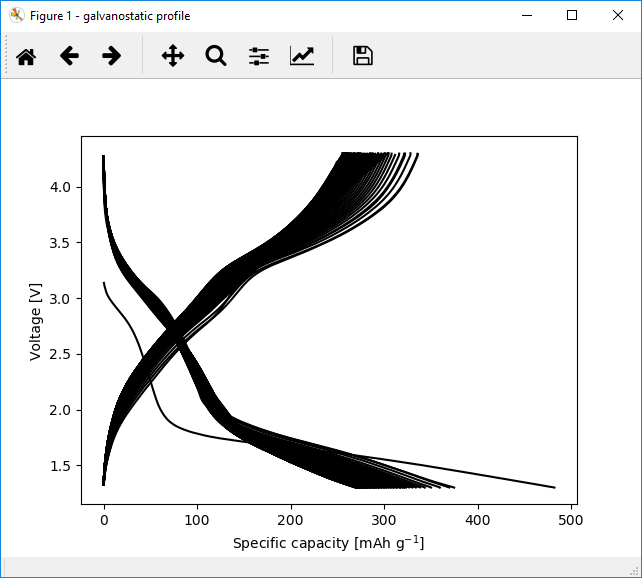
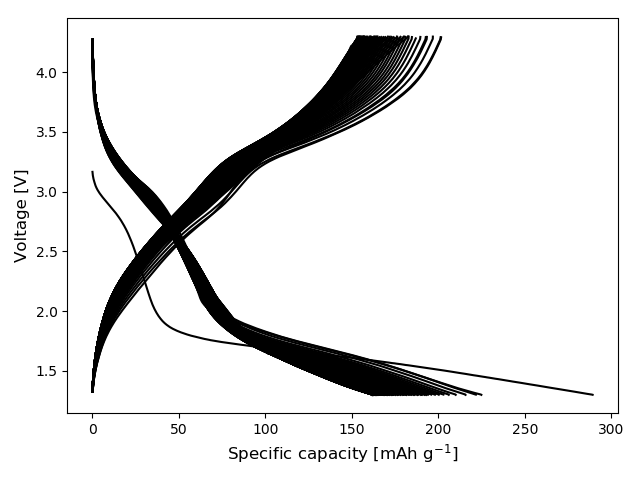
update readme

diff --git a/plotpot/electrode.py b/plotpot/electrode.py
@@ -215,7 +215,7 @@ class Electrode(DbManager):
         self.energy = np.array(self.fetchall())
         # convert energy from Ws to Wh/kg
         if self.mass:
-            self.energy = self.energy / (3.6e-3 * self.mass)
+            self.energy = np.abs(self.energy / (3.6e-3 * self.mass))
 
         
     def getEnergy(self):
@@ -407,7 +407,7 @@ class Electrode(DbManager):
             self.query('''SELECT Hysteresis2 FROM Full_Cycle_Table''')
         else:
             sys.exit("ERROR: Unknown electrode %s" % self.electrode)
-        self.statHysteresis = np.array(self.fetchall())
+        self.statHysteresis = np.abs(np.array(self.fetchall()))
         
             
     def getStatHysteresis(self):

diff --git a/plotpot/plotpot.py b/plotpot/plotpot.py
@@ -48,26 +48,6 @@ class Plotpot(object):
         
         sys.exit() 
 
-    """       
-    def subcommandShow_backup(self):
-        run show subcommand
-        
-        # create plot object
-        plotObj = Plot(self.args)
-
-        # create figures    
-        plotObj.drawPlots()
-        
-        # export  
-        if self.args.export:
-            print("INFO: Exporting data, statistics and figures.")
-            plotObj.exportData()
-            plotObj.saveFigure()
-            
-        # show plots if quiet option not given
-        if not self.args.quiet:
-            plotObj.showPlots()
-    """            
     
     def subcommandShow(self):
         """run show subcommand"""

diff --git a/TODO.rst b/TODO.rst
@@ -1,14 +1,10 @@
-Biologic 3-electrode setup (full cell)
-~~~~~~~~~~~~~~~~~~~~~~~~~~~~~~~~~~~~~~
+Convpot merge files
+~~~~~~~~~~~~~~~~~~~
 
-Biologic counter electrode plot both CE and WE simultaneously in two plots
-Ask meta info twice and create two separate entries in journal with
-a comment full cell name one plot working electrode with _we suffix and the 
-other plot with a counter electrode _ce suffix. Remove --bio_ce option
-and ask additional question "Do you want to plot counter electrode in
-addition to working electrode (default No)?". Fetch always Voltage2 column
-for every instrument. Easier to create both we and ce plots. Only ask
-counter electrode questions if voltage2 column is not everywhere zero.
+Add a merge command which uses Convpot to merge files. The merge command takes
+a --list or -l option to give a file with names to merge. "!" denotes a comment.
+After the merge command are the filenames to merge parsed into a list. The list
+needs to be converted into a long string to be passed to Convpot.
 
 Print File Table
 ~~~~~~~~~~~~~~~~
@@ -18,14 +14,6 @@ file table on sceen with details of each merged file. The -m option takes the
 journal row_ID as argument. If not a merged file print an error message. Check
 if merged file by reading the device column.
 
-Convpot merge files
-~~~~~~~~~~~~~~~~~~~
-
-Add a merge command which uses Convpot to merge files. The merge command takes
-a --list or -l option to give a file with names to merge. "!" denotes a comment.
-After the merge command are the filenames to merge parsed into a list. The list
-needs to be converted into a long string to be passed to Convpot.
-
 Graphical user interface (GUI)
 ~~~~~~~~~~~~~~~~~~~~~~~~~~~~~~
 
@@ -33,9 +21,3 @@ Write a graphical user interface for Plotpot, called by plotpot gui. Use as
 many methods from the Plot, Data and Journal classes as possible. Keep the 
 command line program intact and let the user choose to use the gui or not.
 As the gui matures, the console interface will be depreciated at some point.
-
-Publish
-~~~~~~~
-
-Publish final package on the Python Package Index page and GitHub. Keep
-documentation pages up-to-date.
